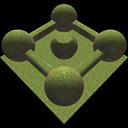
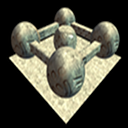
Volume Rendering: the CSG sample uses now the RTSS triplanar texturing and has a nicer thumbnail

diff --git a/Samples/VolumeCSG/src/VolumeCSG.cpp b/Samples/VolumeCSG/src/VolumeCSG.cpp
@@ -40,6 +40,7 @@ using namespace Ogre::Volume;
 void Sample_VolumeCSG::setupContent(void)
 {
     setupControls();
+    setupShaderGenerator();
     Real size = (Real)31.0;
     Vector3 to(size);
             
@@ -92,7 +93,7 @@ void Sample_VolumeCSG::setupContent(void)
 
     mVolumeRoot->load(volumeRootNode, Vector3::ZERO, to, 1, &parameters);
 
-    mVolumeRoot->setMaterial("triplanarReference");
+    mVolumeRoot->setMaterial("Ogre/RTShader/TriplanarTexturing");
 
     // Camera
     mCamera->setPosition(to + (Real)7.5);
@@ -121,6 +122,23 @@ void Sample_VolumeCSG::setupControls(void)
     
 //-----------------------------------------------------------------------
 
+void Sample_VolumeCSG::setupShaderGenerator()
+{
+    RTShader::ShaderGenerator* mGen = RTShader::ShaderGenerator::getSingletonPtr();
+    mGen->setTargetLanguage("cg");
+        
+    RTShader::RenderState* pMainRenderState = 
+        mGen->createOrRetrieveRenderState(RTShader::ShaderGenerator::DEFAULT_SCHEME_NAME).first;
+    pMainRenderState->reset();
+            
+    mGen->invalidateScheme(Ogre::RTShader::ShaderGenerator::DEFAULT_SCHEME_NAME);
+
+    // Make this viewport work with shader generator scheme.
+    mViewport->setMaterialScheme(RTShader::ShaderGenerator::DEFAULT_SCHEME_NAME);
+}
+    
+//-----------------------------------------------------------------------
+
 void Sample_VolumeCSG::cleanupContent(void)
 {   
     OGRE_DELETE mVolumeRoot;
@@ -131,8 +149,8 @@ void Sample_VolumeCSG::cleanupContent(void)
 
 Sample_VolumeCSG::Sample_VolumeCSG(void) : mVolumeRoot(0), mHideAll(false)
 {
-    mInfo["Title"] = "Volume CSG";
-    mInfo["Description"] = "Demonstrates a volumetric CSG scene, showing sphere, cube, plane, union, difference and intersection.";
+    mInfo["Title"] = "Volume CSG and RTSS triplanar texturing";
+    mInfo["Description"] = "Demonstrates a volumetric CSG scene, showing sphere, cube, plane, union, difference and intersection. The triplanar texturing is generated by the RTSS.";
     mInfo["Thumbnail"] = "thumb_volumecsg.png";
     mInfo["Category"] = "Geometry";
 }
@@ -141,18 +159,6 @@ Sample_VolumeCSG::Sample_VolumeCSG(void) : mVolumeRoot(0), mHideAll(false)
 
 bool Sample_VolumeCSG::keyPressed(const OIS::KeyEvent& evt)
 {
-    if (evt.key == OIS::KC_F10)
-    {
-        mVolumeRoot->setVolumeVisible(!mVolumeRoot->getVolumeVisible());
-    }
-    if (evt.key == OIS::KC_F11)
-    {
-        mVolumeRoot->setOctreeVisible(!mVolumeRoot->getOctreeVisible());
-    }
-    if (evt.key == OIS::KC_F12)
-    {
-        mVolumeRoot->setDualGridVisible(!mVolumeRoot->getDualGridVisible());
-    }
     if (evt.key == OIS::KC_H)
     {
         if (mHideAll)
@@ -180,6 +186,17 @@ bool Sample_VolumeCSG::frameRenderingQueued(const Ogre::FrameEvent& evt)
     );
     mCamera->lookAt(center);
     return SdkSample::frameRenderingQueued(evt);
+}
+
+//-----------------------------------------------------------------------
+
+void Sample_VolumeCSG::_shutdown()
+{
+    RTShader::RenderState* pMainRenderState = 
+        RTShader::ShaderGenerator::getSingleton().createOrRetrieveRenderState(RTShader::ShaderGenerator::DEFAULT_SCHEME_NAME).first;
+    pMainRenderState->reset();
+        
+    SdkSample::_shutdown();
 }
 
 //-----------------------------------------------------------------------

diff --git a/Samples/VolumeCSG/include/VolumeCSG.h b/Samples/VolumeCSG/include/VolumeCSG.h
@@ -68,7 +68,11 @@ protected:
     /** Sets up the UI.
     */
     virtual void setupControls(void);
-        
+
+    /** Sets up the shader generator.
+    */
+    virtual void setupShaderGenerator(void);
+
     /** Is called when the sample is stopped.
     */
     virtual void cleanupContent(void);
@@ -78,9 +82,17 @@ public:
     */
     Sample_VolumeCSG(void);
     
+    /** Overridden from SdkSample.
+    */
     virtual bool keyPressed(const OIS::KeyEvent& evt);
-
+    
+    /** Overridden from SdkSample.
+    */
     virtual bool frameRenderingQueued(const Ogre::FrameEvent& evt);
+
+    /** Overridden from SdkSample.
+    */
+    virtual void _shutdown();
 };
 
 #endif
